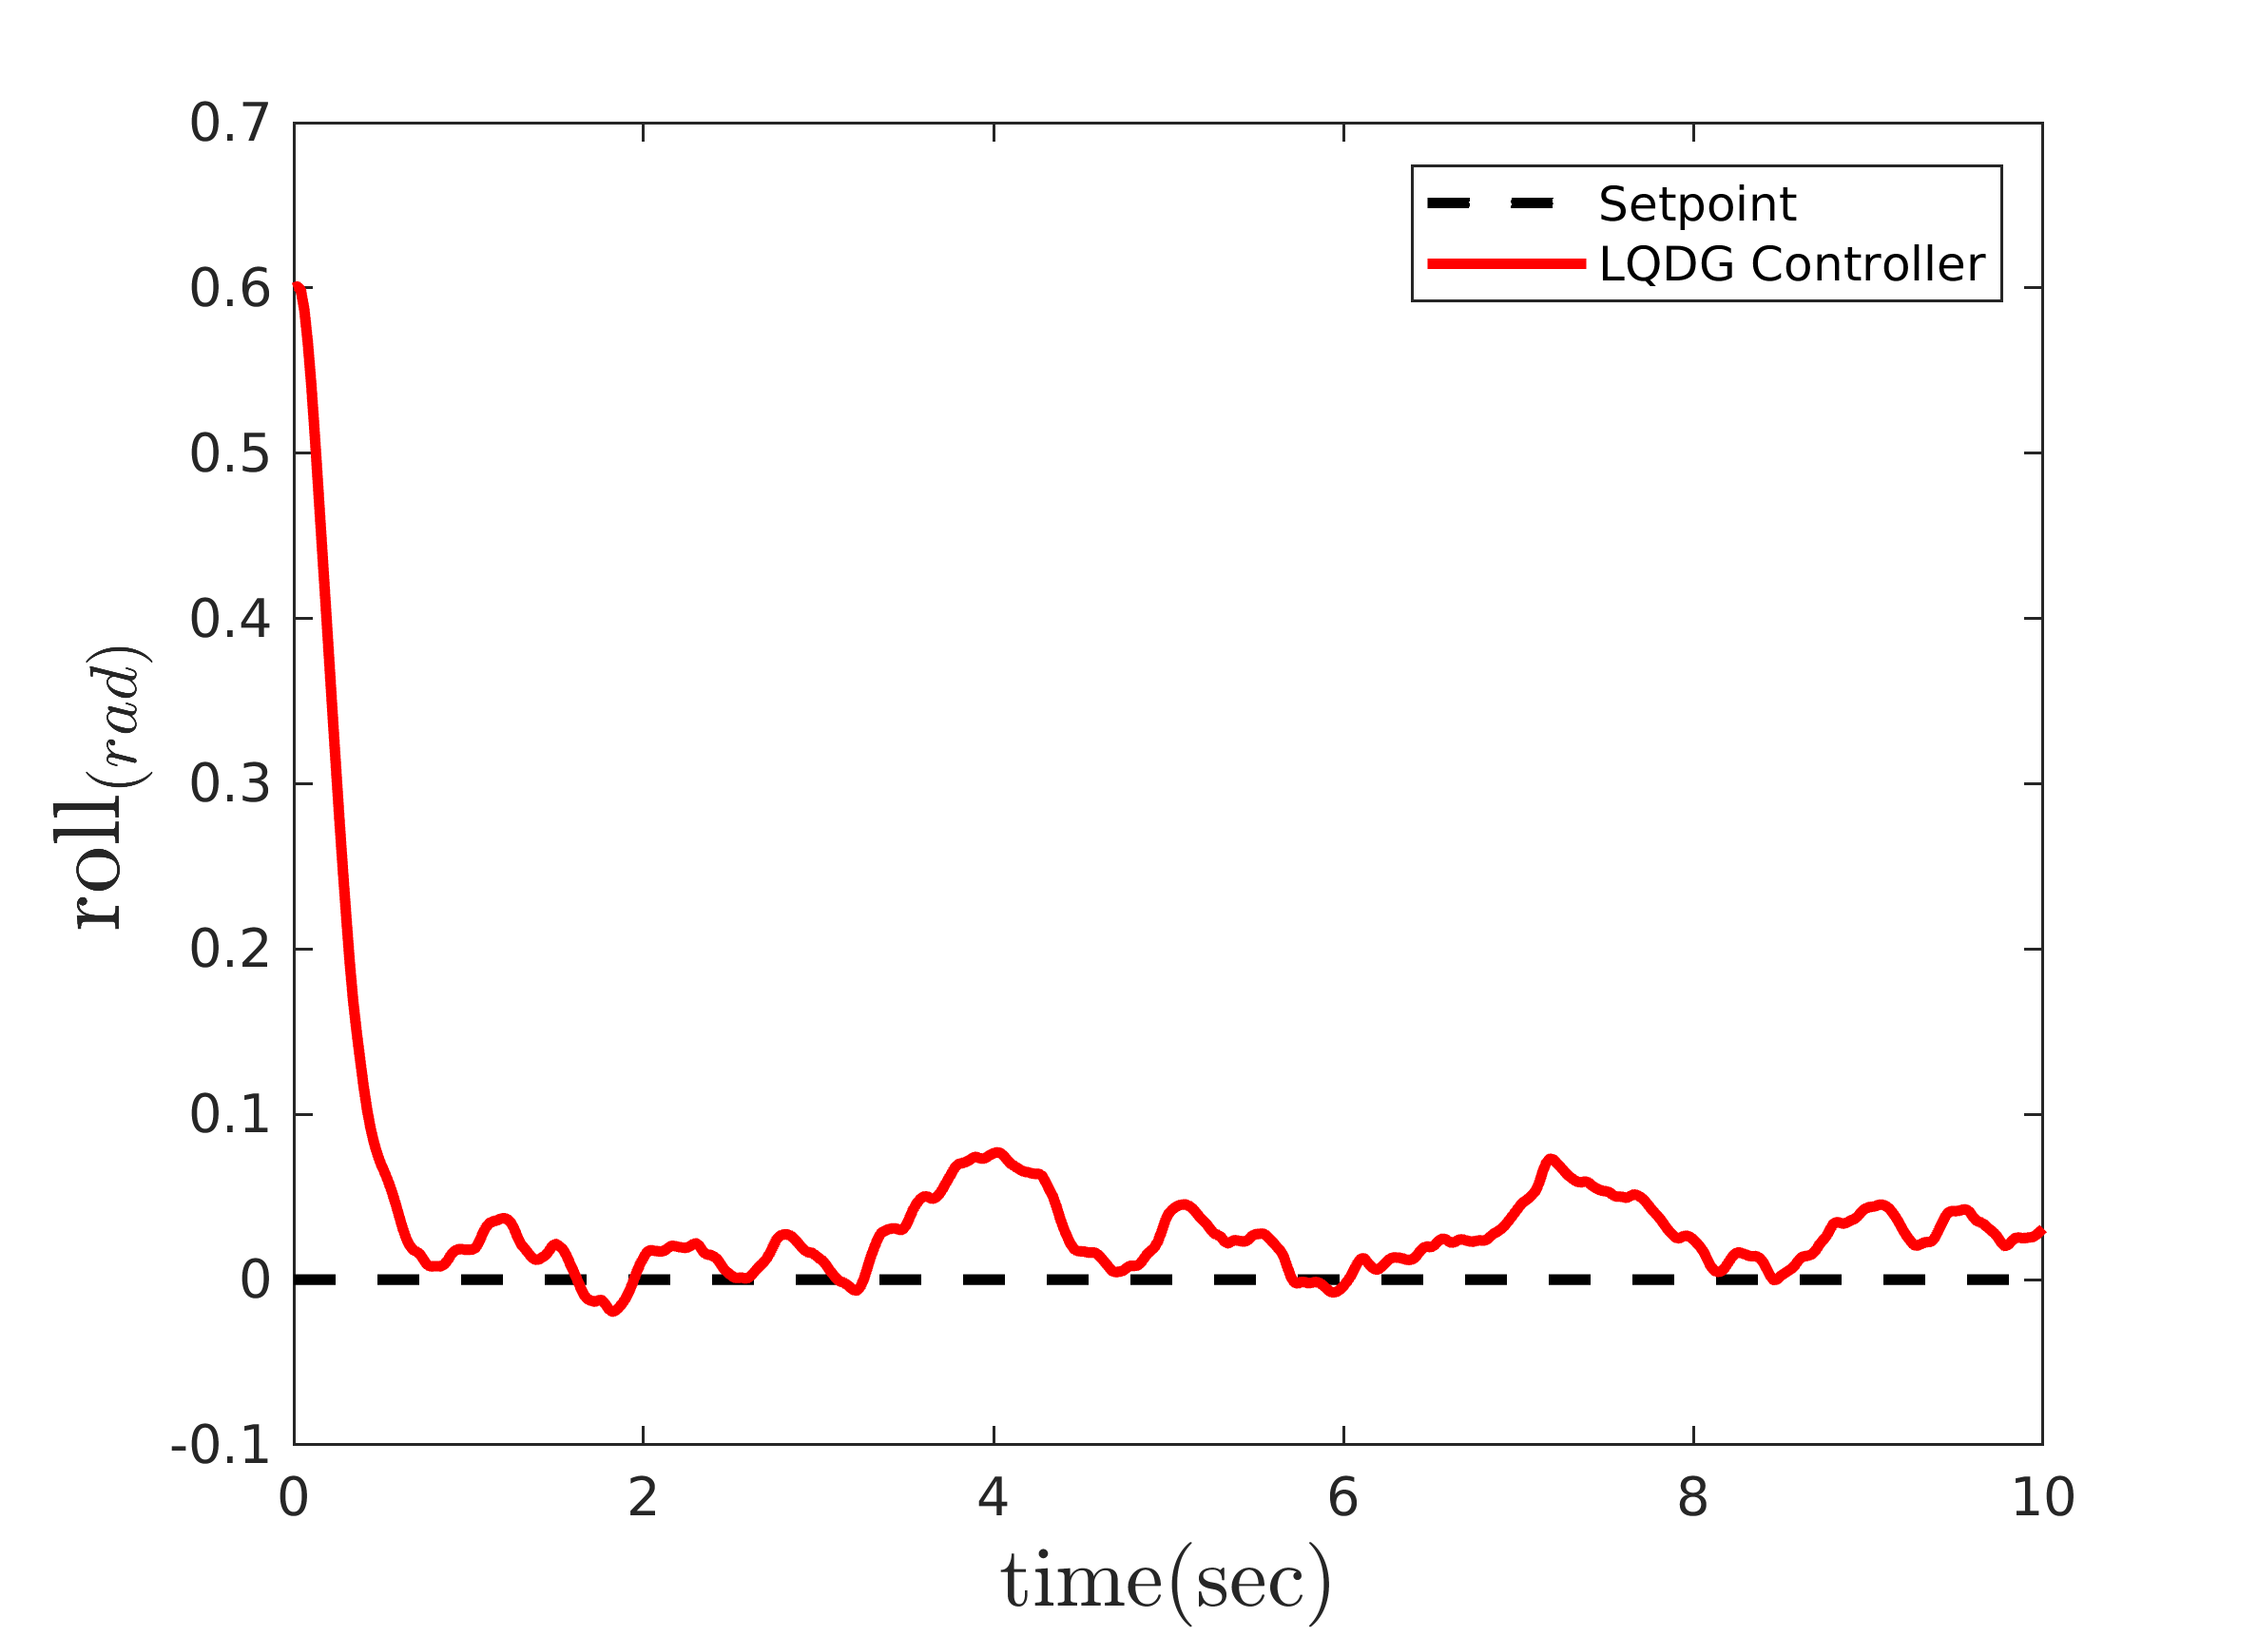
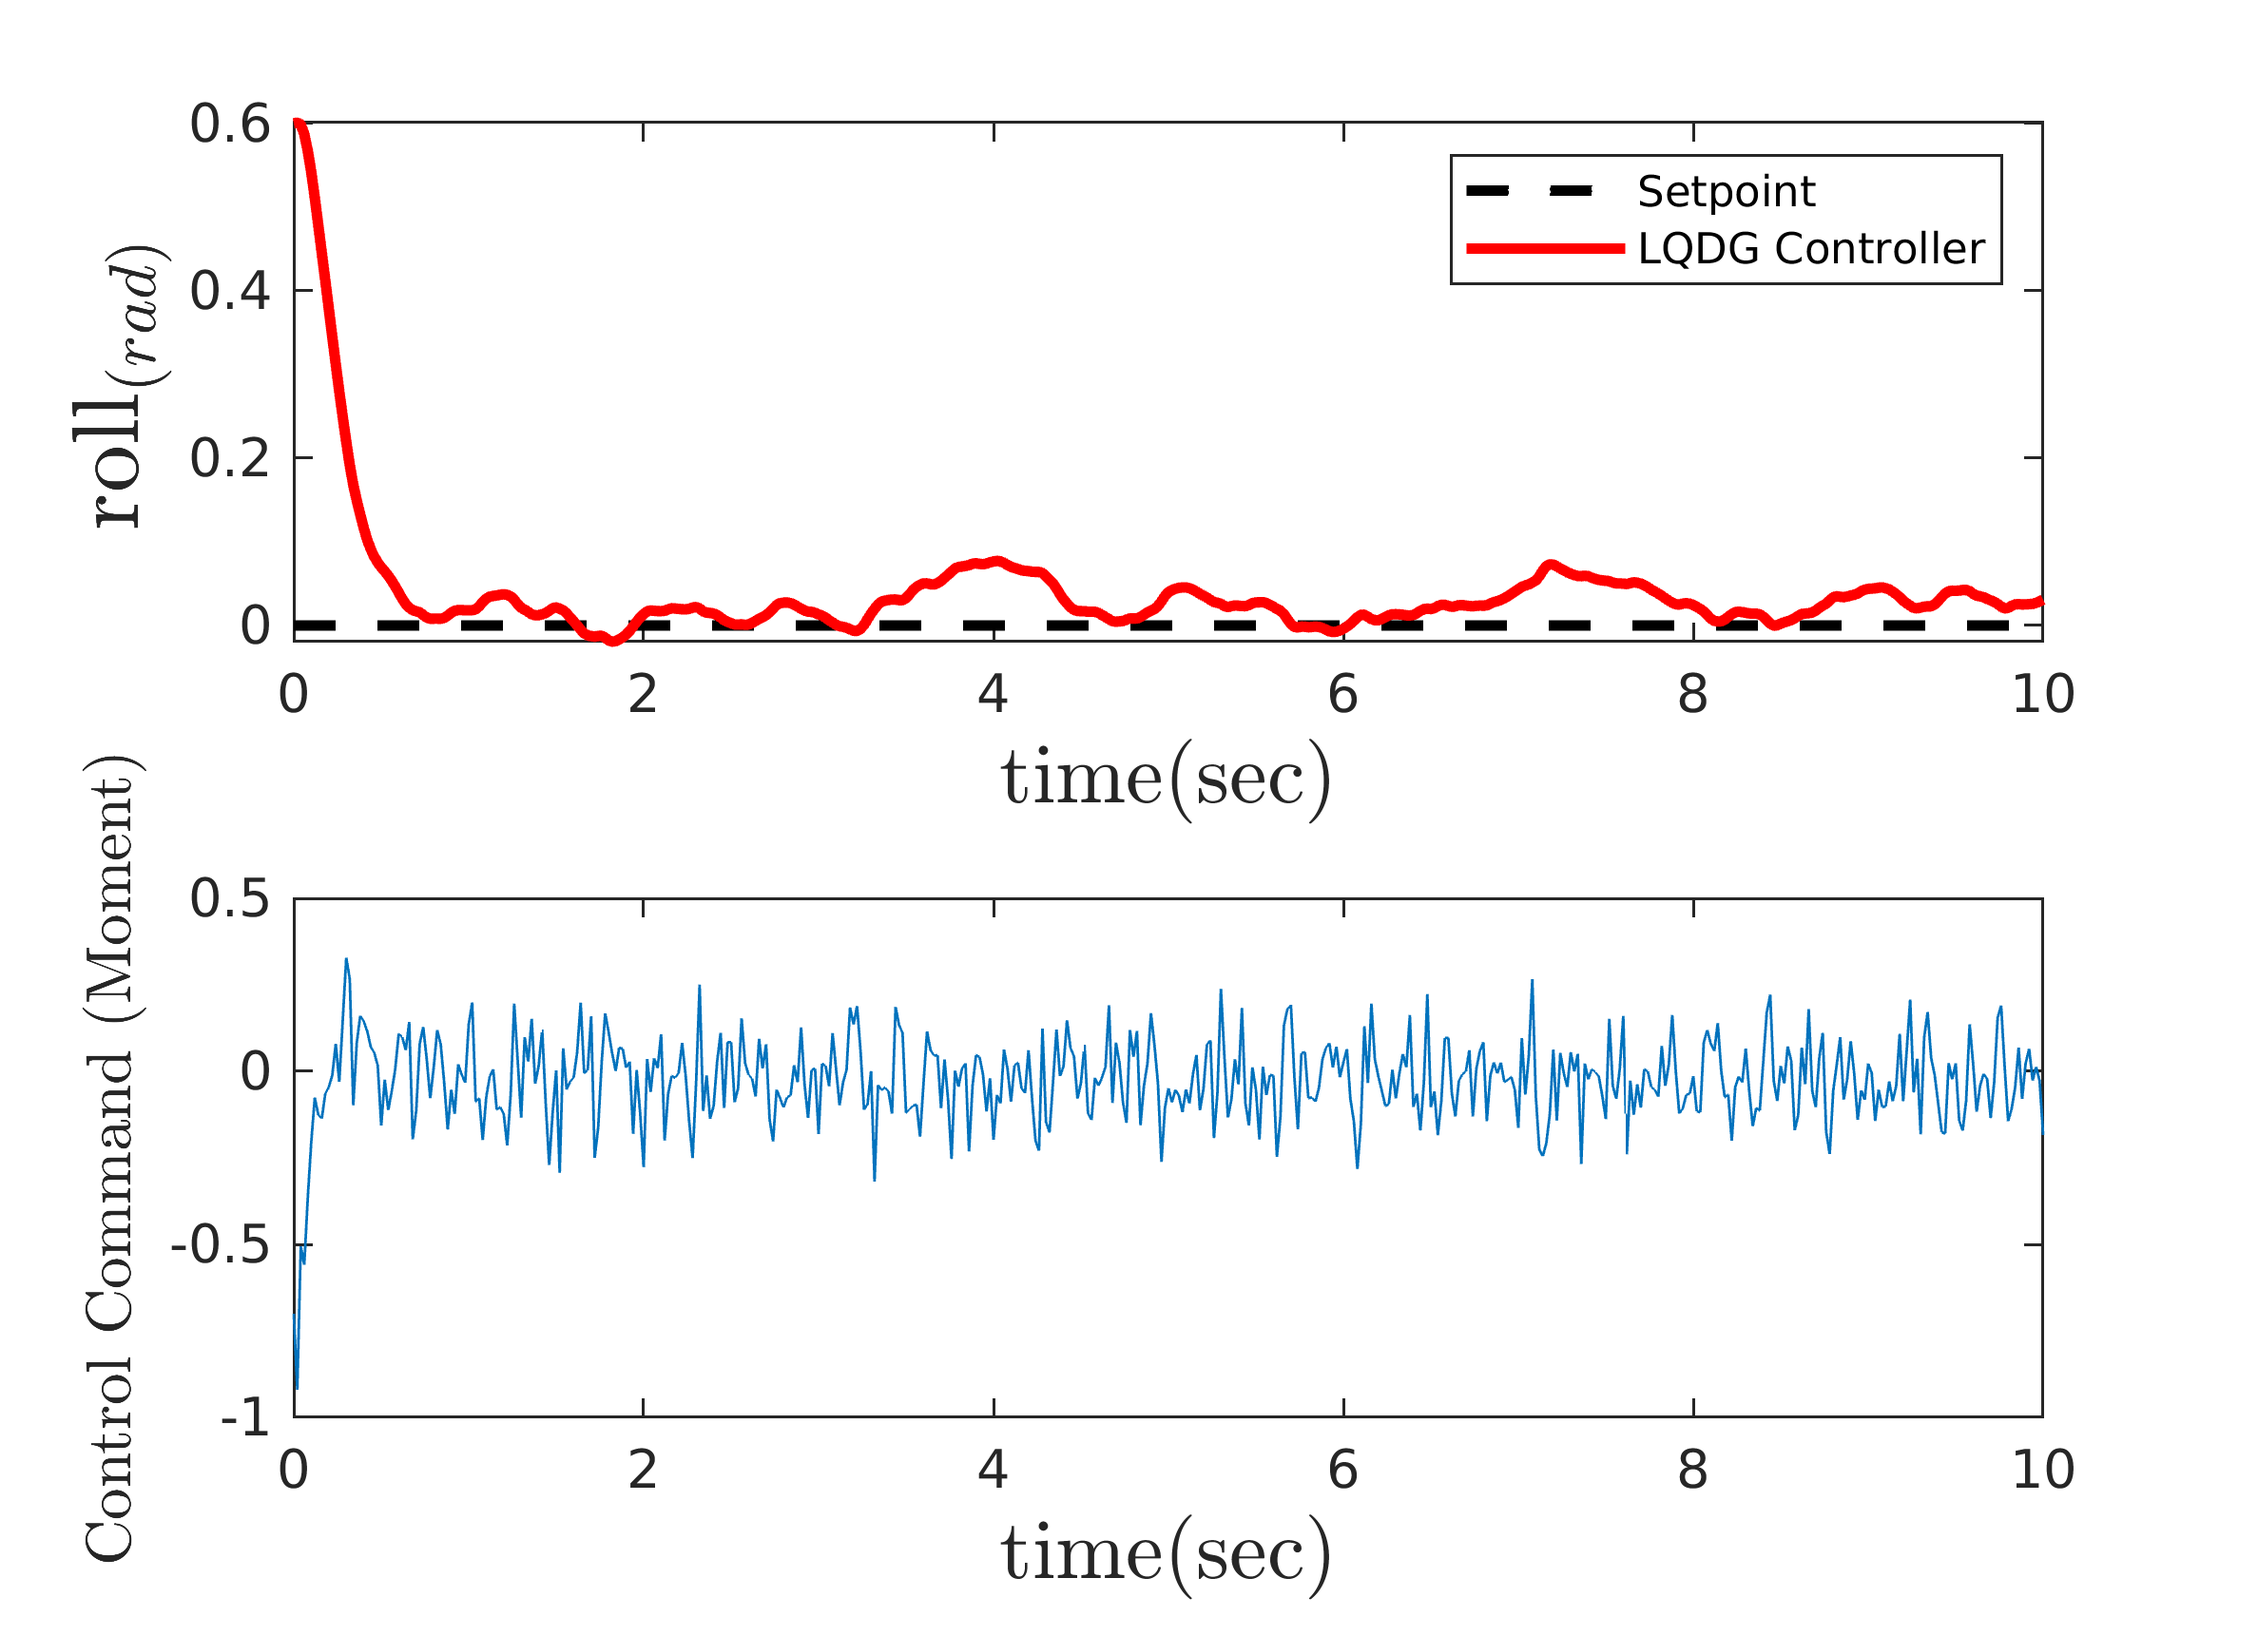
add command to fig LQDG

diff --git a/Code/Simulink/Quadcopter/MIL/Nonlinear/SISO/LQDG/Roll/roll_plot.m b/Code/Simulink/Quadcopter/MIL/Nonlinear/SISO/LQDG/Roll/roll_plot.m
@@ -2,7 +2,7 @@ load('11-Jun-2022-12-19-13-noise_ite_Roll_LQDG500.mat');
 weighting_matrix = XOpt;
 out = sim('Quad_Nonlinear_Roll_Model_LQDG');
 
-% subplot(2,1,1);
+subplot(2,1,1);
 plot(out.tout, zeros(1, length(out.tout)), '--k', 'linewidth', 2);
 hold on;
 plot(out.tout, out.roll_state(:, 1), 'r', 'linewidth', 2);
@@ -10,13 +10,10 @@ hold off;
 xlabel('time($\sec)$', 'interpreter', 'latex', 'FontSize', 16);
 ylabel('roll$_{(rad)}$', 'interpreter', 'latex', 'FontSize', 18);
 legend('Setpoint', 'LQDG Controller', 'Location','northeast');
-% subplot(2,1,2);
-% plot(out.tout, zeros(1, length(out.tout)), '--k', 'linewidth', 2);
-% hold on
-% plot(out.tout, out.roll_state(:, 2), 'r', 'linewidth', 2);
-% hold off;
-% xlabel('time($\sec)$', 'interpreter', 'latex', 'FontSize', 16);
-% ylabel('roll rate$_{(rad/\sec)}$', 'interpreter', 'latex', 'FontSize', 18);
-% legend('Setpoint', 'LQDG Controller', 'Location','northeast');
+subplot(2,1,2);
+plot(out.tout, out.u*J_xx);
+hold off;
+xlabel('time($\sec)$', 'interpreter', 'latex', 'FontSize', 16);
+ylabel('Control Command (Moment)', 'interpreter', 'latex', 'FontSize', 12);
 
 print('../../../../../../../../Figures/MIL/LQDG/Roll/lqdg_roll.png','-dpng','-r400');
